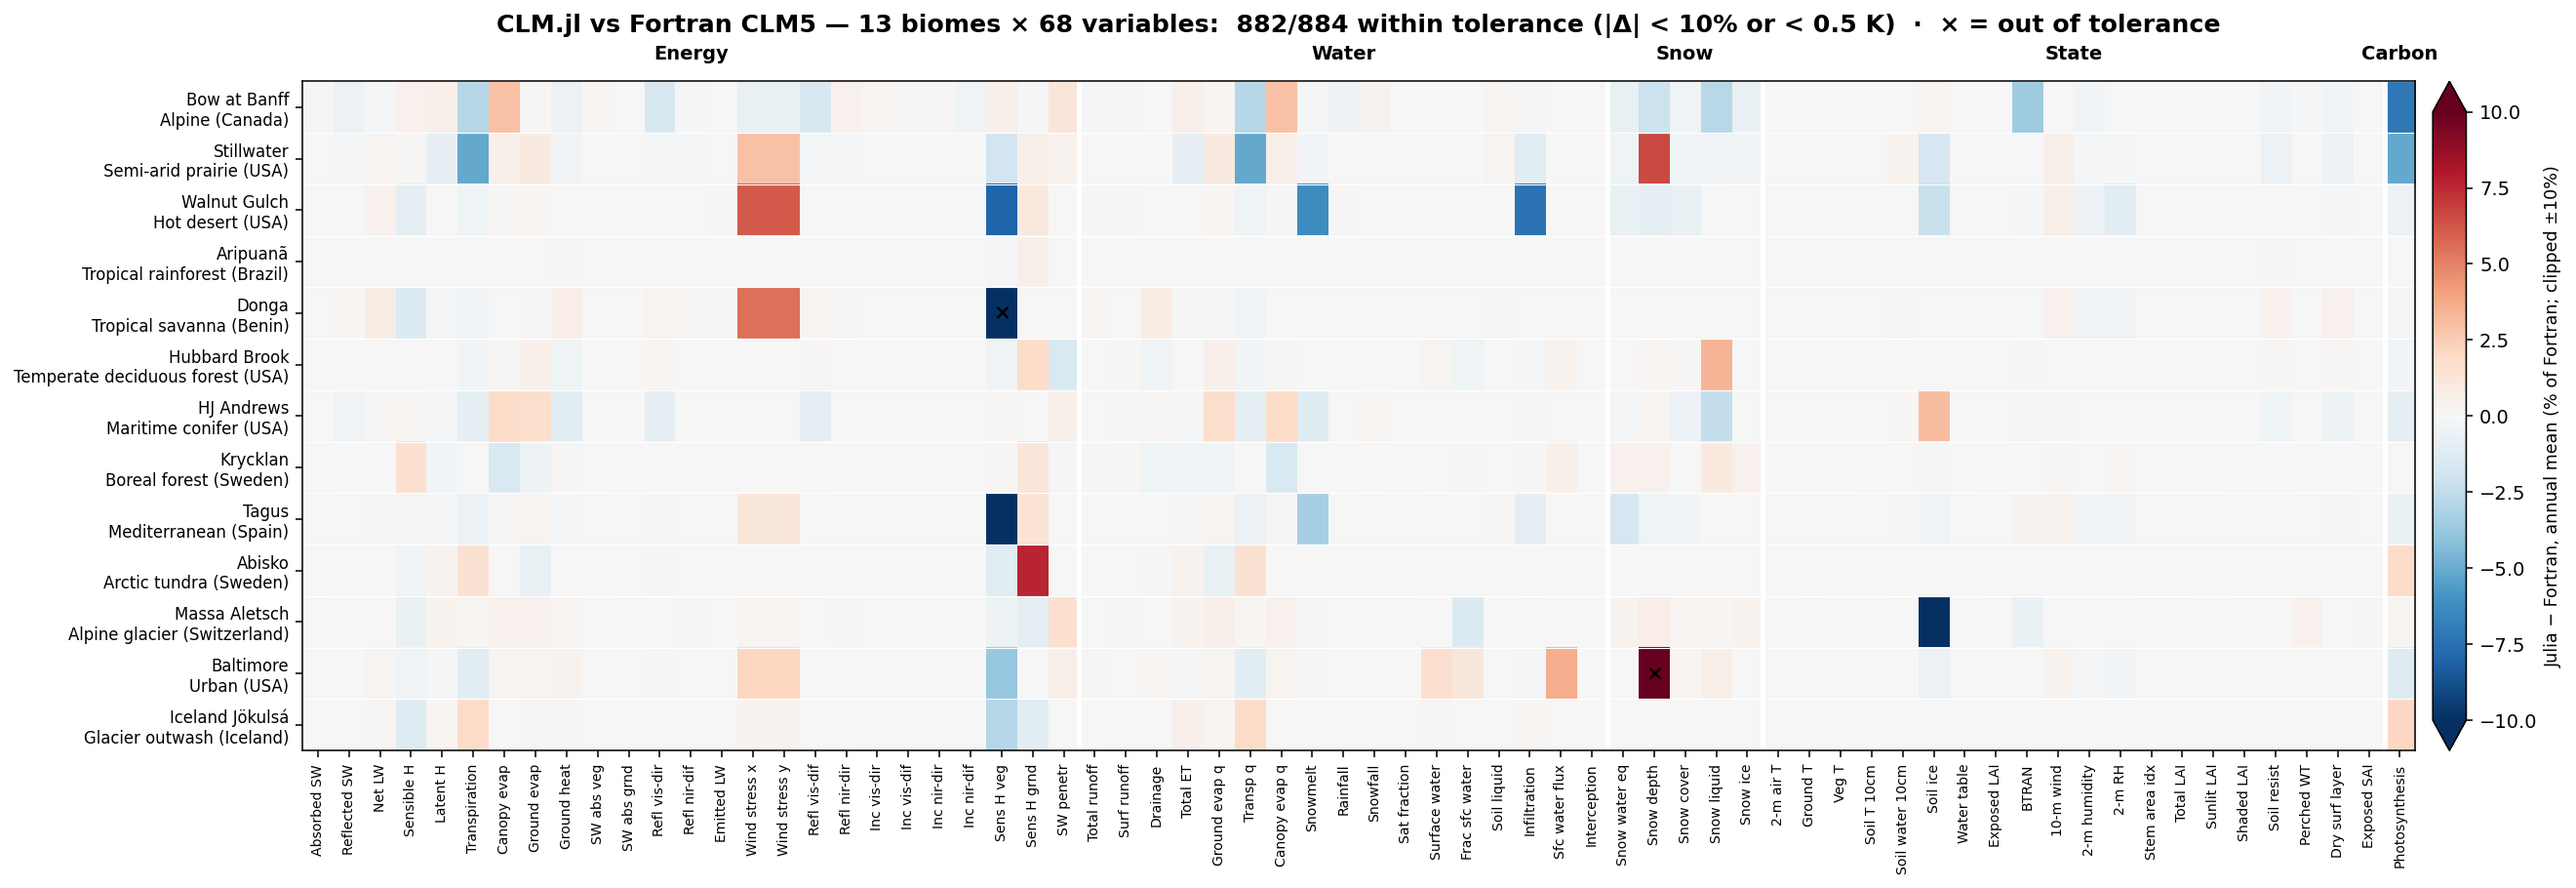
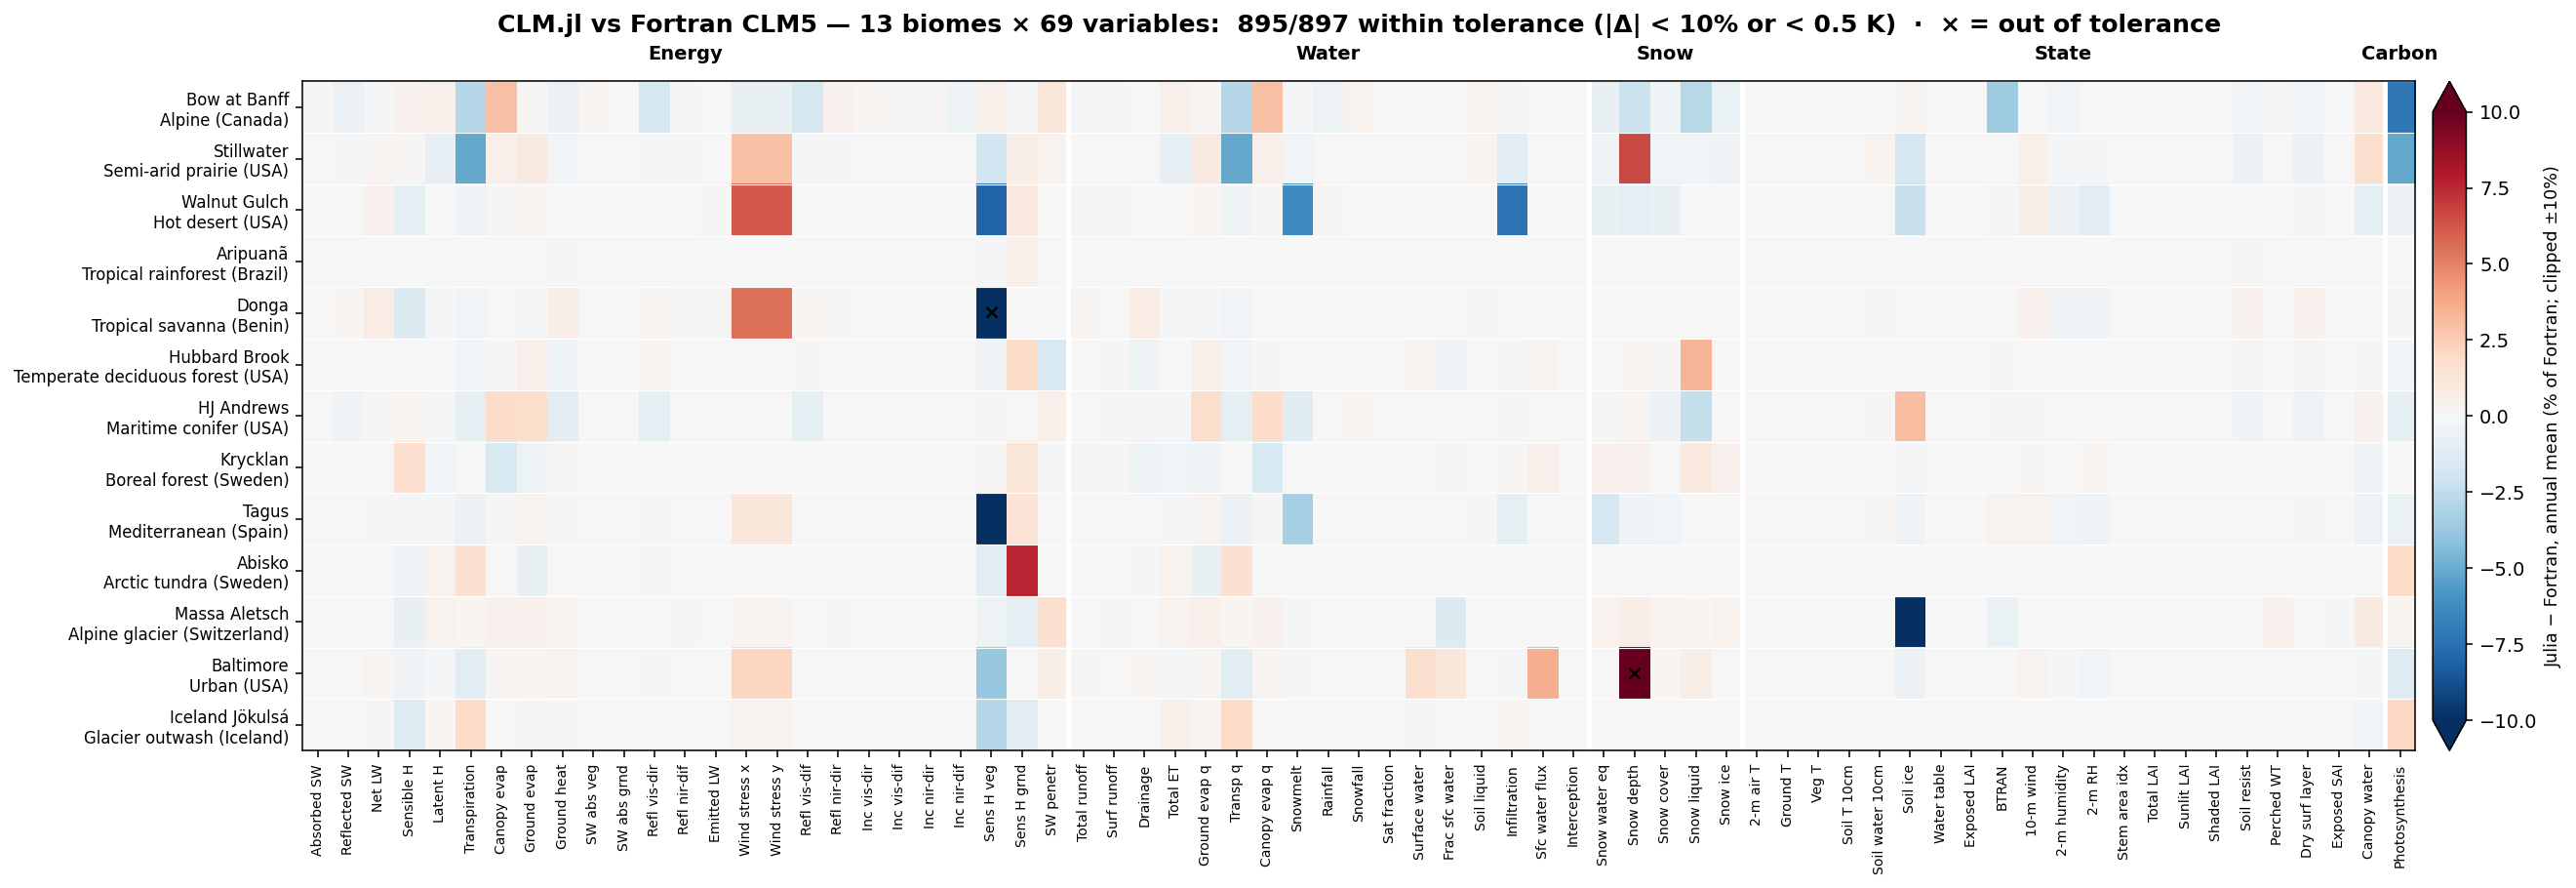
parity: fix H2OCAN canopy-water wiring + sampling phase; add as 69th var
Two real bugs behind the previously-dropped H2OCAN diagnostic, plus a diagnosis
of the FSH_V sparse-canopy residual.

H2OCAN (fixed):
- The persistent bulk diagnostic h2ocan_patch was only ever zeroed at cold start
  and never written, so it read 0 (snocan/liqcan evolve correctly, but the
  diagnostic was never synced). Added a canhyd_update_h2ocan! helper.
- Placing the sync exposed a sampling-PHASE bug: canopy water is decremented by
  canopy evaporation in canopy_fluxes (canopy_fluxes.jl:1206-1222), which runs
  AFTER canopy hydrology — mirroring Fortran (CanopyFluxesMod.F90:1607-1617).
  Syncing h2ocan at the end of canopy hydrology captured the pre-evaporation
  store (~+15% high, and up to +30% on dry sites). Moving the sync to just after
  canopy_fluxes_core! in the driver matches Fortran's end-of-step sampling.
- Result: Aripuanã +16.6% -> -0.1%, Bow +1.0%; H2OCAN now passes all 13 domains.

FSH_V (diagnosed, no code change): the sparse-canopy veg-sensible-heat deficit
(Donga -16%) is not a discrete bug — the eflx_sh_veg formula and all area terms
(sa_leaf=elai+esai, sa_stem=0) are byte-identical to Fortran's non-biomass path
(CanopyFluxesMod.F90:797-800), biomass heat storage is off both sides, and TV
matches. Veg sensible heat is a small residual of large conductance x temperature
terms, so any sub-percent coupled-Newton difference is amplified in the relative
FSH_V where the canopy is sparsest. Absolute error <=1 W/m^2; total FSH matches.
[…]

diff --git a/scripts/plot_scorecard_overview.py b/scripts/plot_scorecard_overview.py
@@ -74,7 +74,7 @@ VARS = [
     ("FSH_V","FSH_V","Sens H veg","Energy",0.1),("FSH_G","FSH_G","Sens H grnd","Energy",0.1),
     ("SABG_PEN","SABG_PEN","SW penetr","Energy",0.1),("QINTR","QINTR","Interception","Water",0.02),
     ("SNOWLIQ","SNOWLIQ","Snow liquid","Snow",0.02),("SNOWICE","SNOWICE","Snow ice","Snow",0.02),
-    ("ESAI","ESAI","Exposed SAI","State",0.02),
+    ("ESAI","ESAI","Exposed SAI","State",0.02),("H2OCAN","H2OCAN","Canopy water","State",0.02),
     ("FPSN","FPSN","Photosynthesis","Carbon",0.05),
 ]
 # Keep columns grouped on the heatmap regardless of insertion order: stable-sort

diff --git a/README.md b/README.md
@@ -32,9 +32,9 @@ series are compared variable-by-variable.
 
 ![Multi-biome parity scorecard — CLM.jl vs Fortran CLM5](scripts/parity_scorecard.png)
 
-Current standing: **882 of 884** biome × variable combinations agree within
+Current standing: **895 of 897** biome × variable combinations agree within
 **10 % relative** (or **0.5 K** for temperatures), across **13 biomes** and
-**68 output variables** (energy, water, snow, state, carbon). Most agree to under
+**69 output variables** (energy, water, snow, state, carbon). Most agree to under
 1 %; the two cells outside tolerance are both small residuals in small quantities:
 the density of thin, warm, transient snow at urban Baltimore, and the vegetation
 share of sensible heat (a ~3 W m⁻² component) on the sparse Donga savanna canopy —